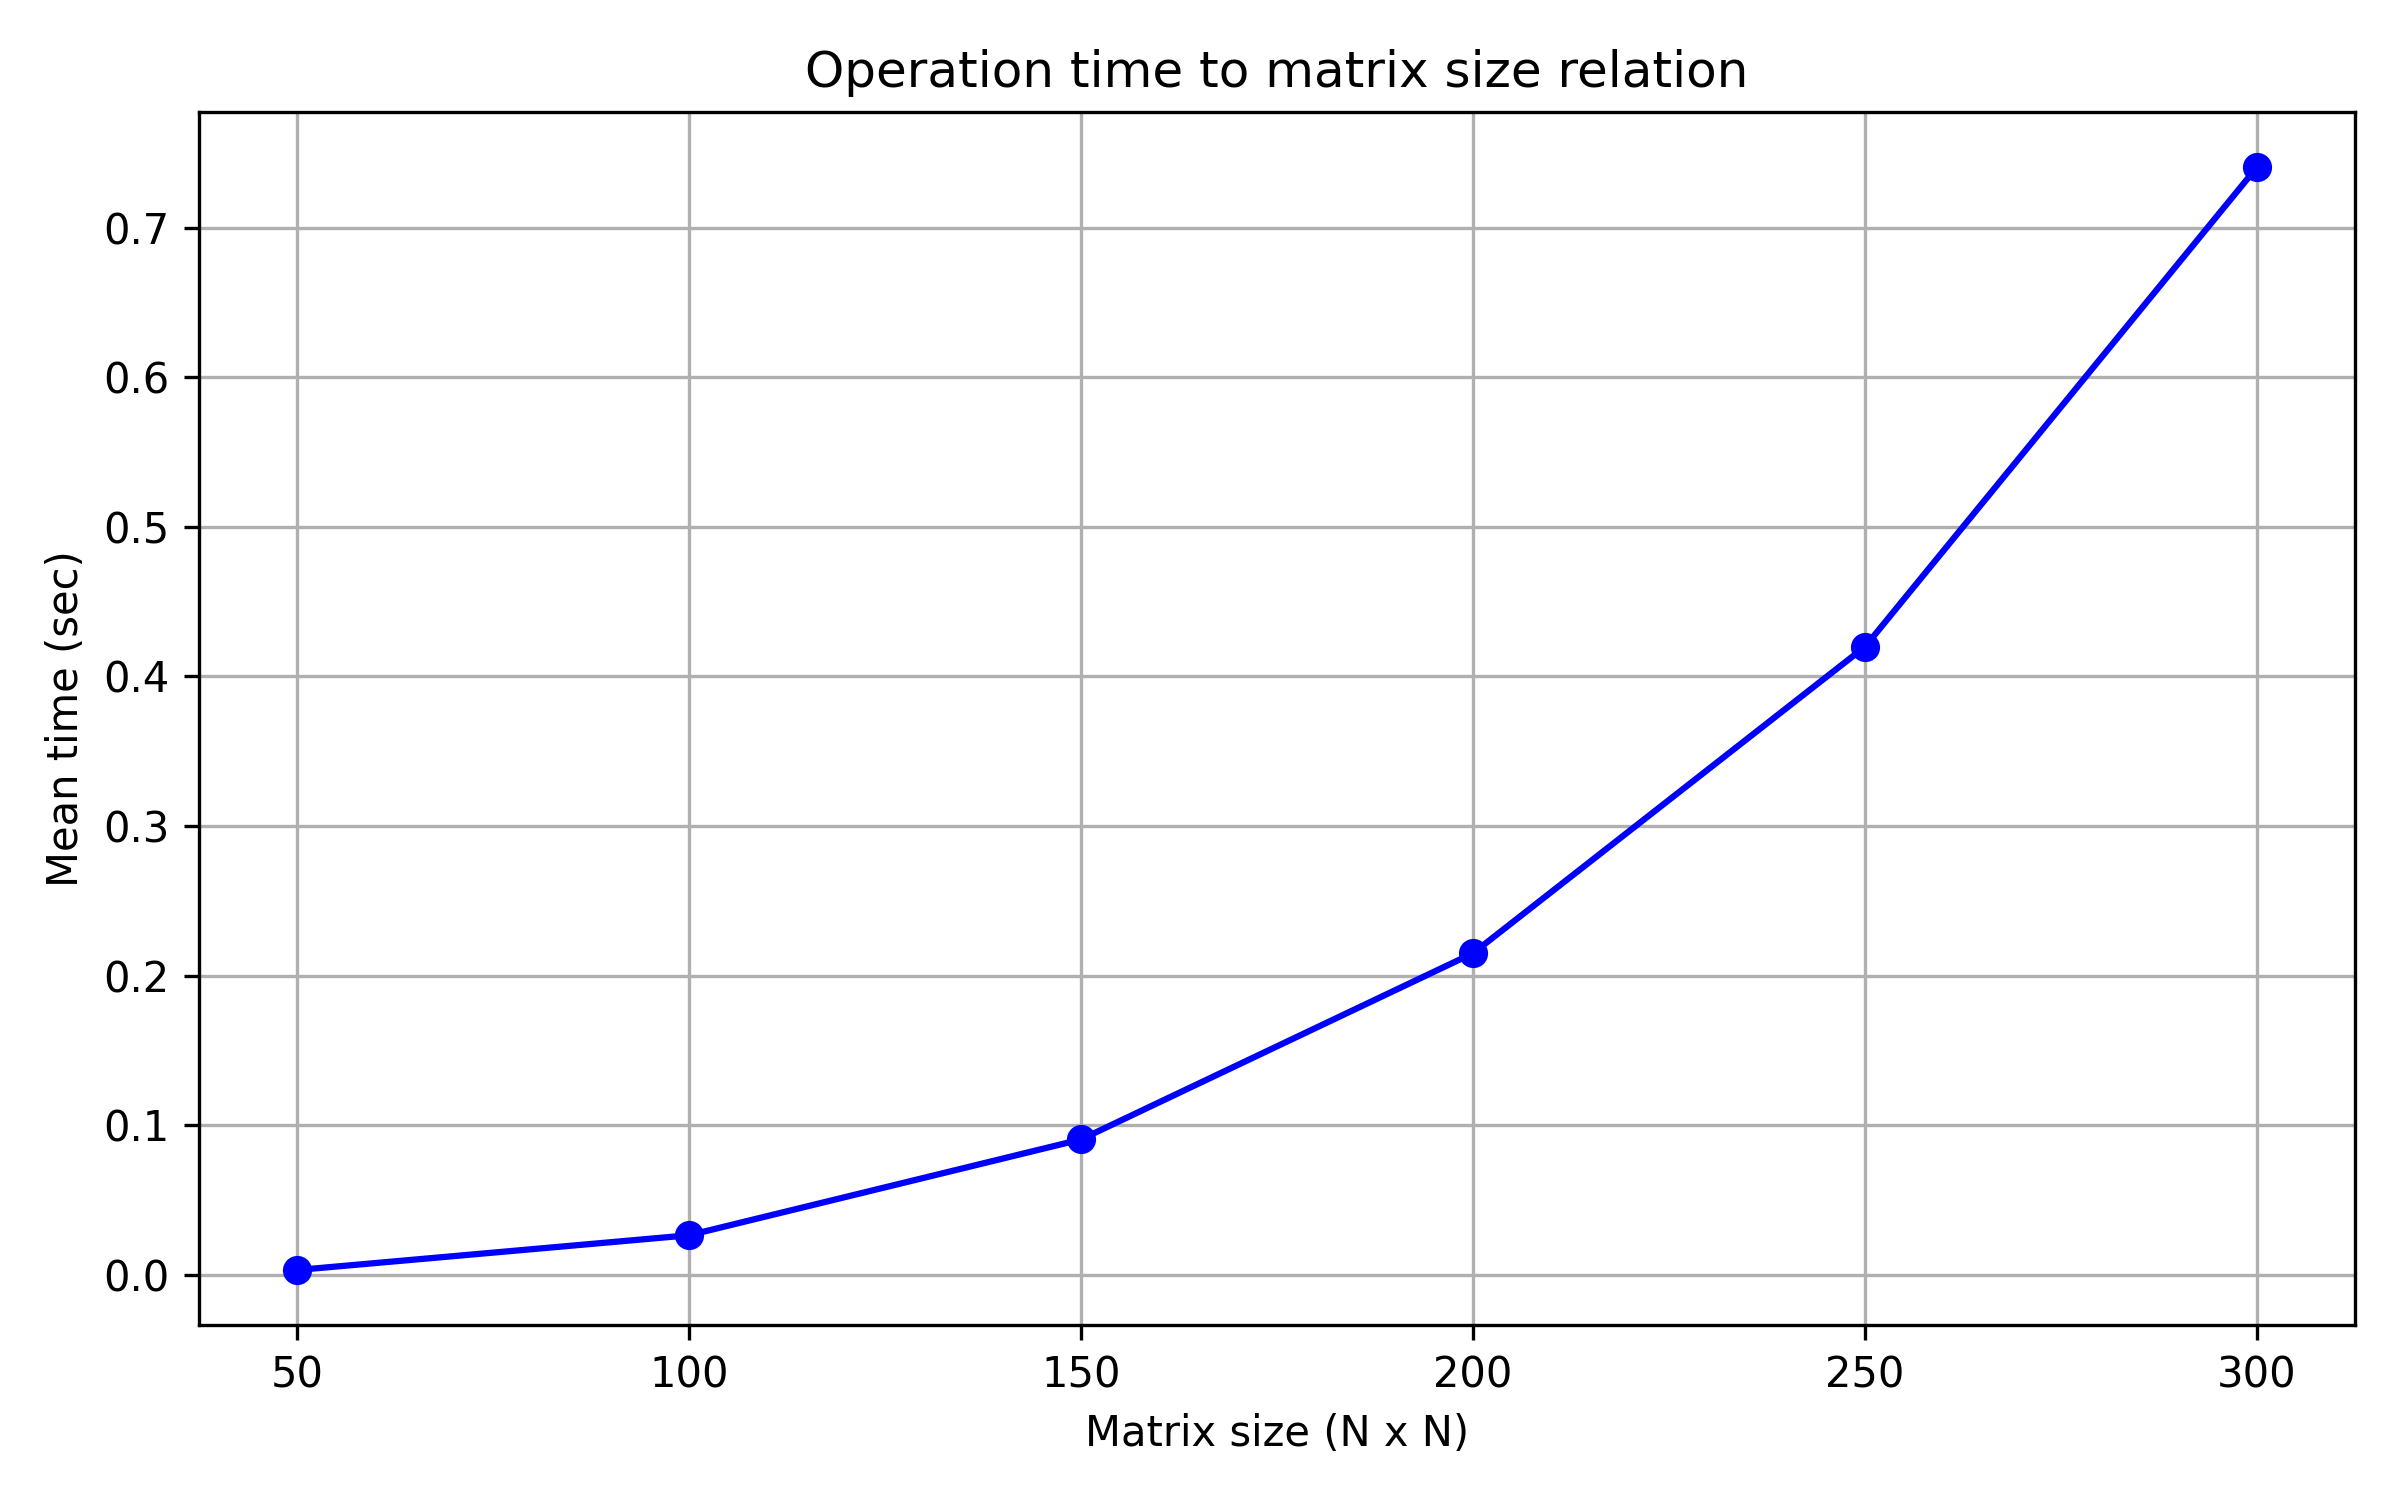
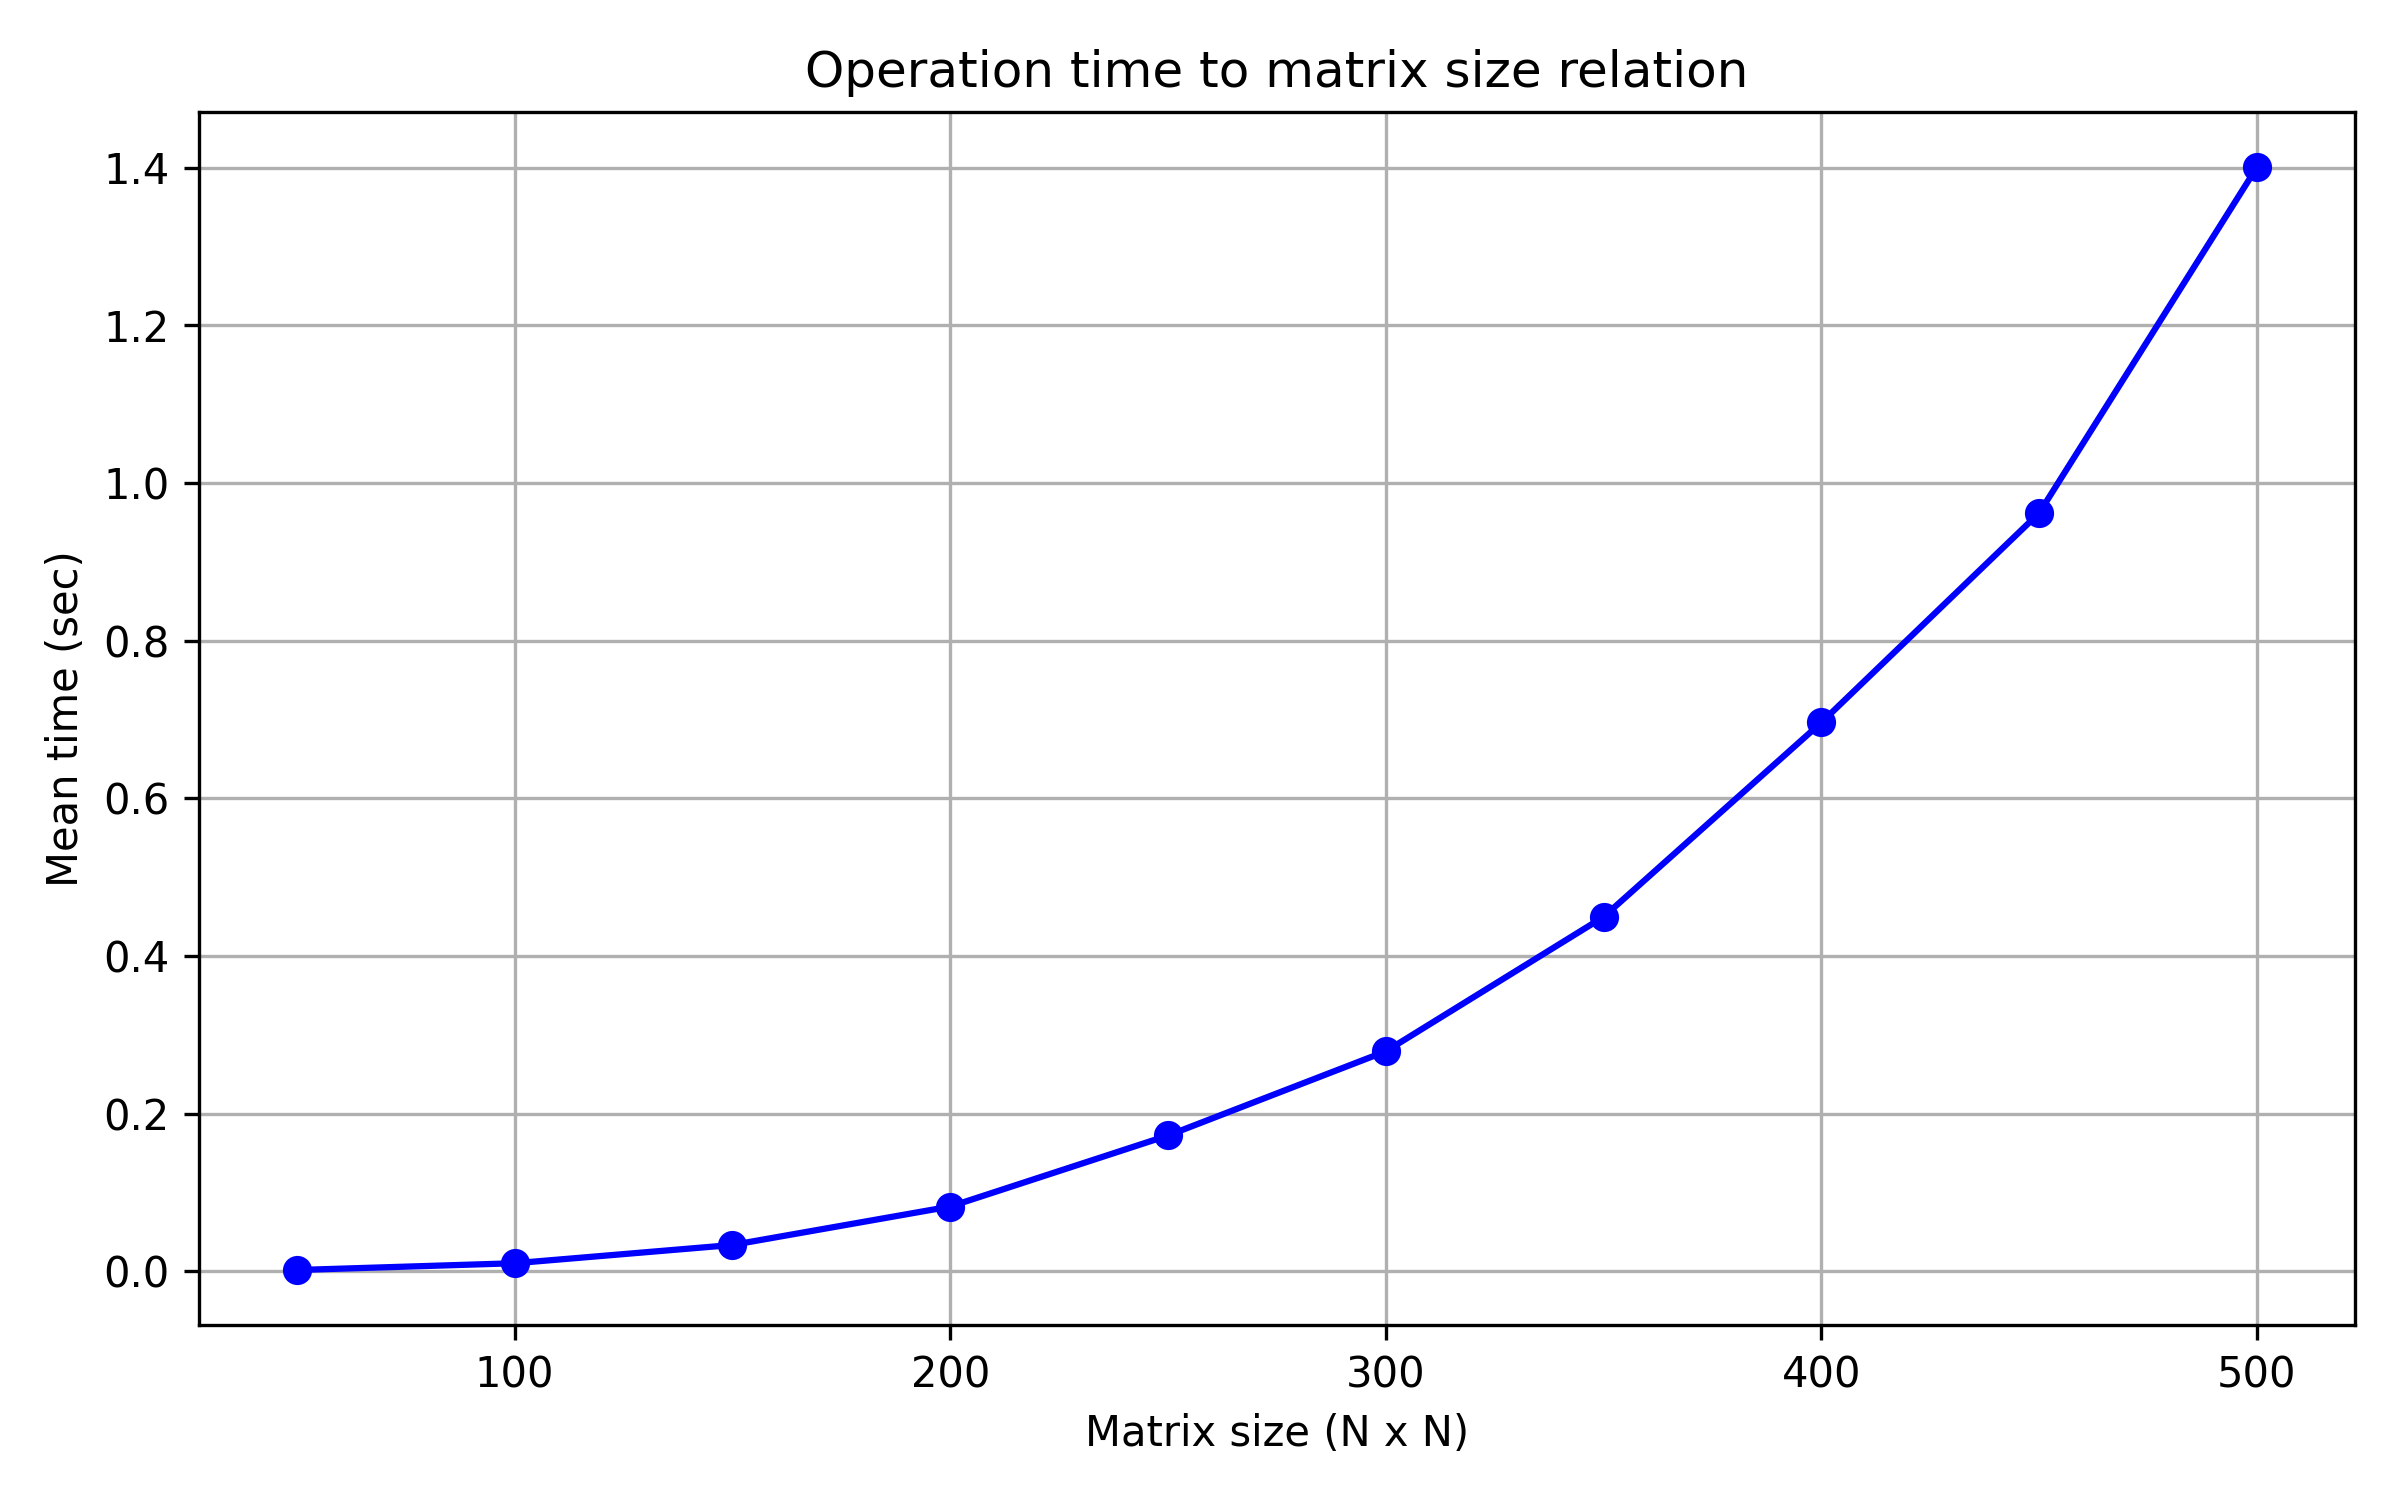
Added script for entry point

diff --git a/check.py b/check.py
@@ -6,7 +6,7 @@ import re
 INPUT_DIR = "input"
 LOG_FILE = "check.log"
 NUM_FILES_PER_SIZE = 10
-MAX_SIZE = 300
+MAX_SIZE = 500
 SIZE_INCREMENT = 50
 
 def read_matrix(filename):

diff --git a/multiply.cpp b/multiply.cpp
@@ -7,7 +7,7 @@
 #include <string>
 
 #define DISTANCE 10000.0
-#define MAX_SIZE 300
+#define MAX_SIZE 500
 #define NUM_FILES_PER_SIZE 10
 
 using namespace std;

diff --git a/README.md b/README.md
@@ -1,0 +1,41 @@
+## Отчет по лабораторной работе №1 
+
+### Задание на лабораторную работу: 
+   Написать программу на языке C/C++ для перемножения двух матриц.
+Исходные данные: файл(ы) содержащие значения исходных матриц.
+Выходные данные: файл со значениями результирующей матрицы, время
+выполнения, объем задачи.
+Обязательна автоматизированная верификация результатов вычислений с помощью
+сторонних библиотек или стороннего ПО (например на Matlab/Python).
+
+### Файлы:
+* [multiply.cpp](multiply.cpp) - создает файлы с матрицами, профводит умножение и сохраняет время выполнения
+* [check.py](check.py) - проверяет корректность умножения с помощью numpy и строит график зависимости времени умножения от размера матриц
+* [input](input) - папка со всеми сгенерированными матрицами и результатами их перемножения. Не добавлена в репозиторий в силу огромного количества файлов
+* [timing_results.txt](timing_results.txt) - файл, содержащий размеры матриц и среднее (из 10 экспериментов) время их перемножения
+* [script.ps1](script.ps1) - точка входа в программу. Запустит последовательно создание-умножение и проверку. Результат можно будет увидеть в check.log
+
+### Специфика
+Максимальный размер матриц задается константами в файлах multiply.cpp и check.py, он должен совпадать
+  
+### Результаты экспериментов и выводы: 
+Статистика: 
+
+|Размер|Среднее время, с|
+|------------:|-------:|
+|50x50	|0.001501|
+|100x100|	0.010109|
+|150x150|	0.033304|
+|200x200|	0.082021|
+|250x250|	0.172176|
+|300x300|	0.278965|
+|350x350|	0.449517|
+|400x400|	0.696111|
+|450x450|	0.961924|
+|500x500|	1.400607|
+
+График: 
+
+![График](timing_plot.png)
+
+Вывод: При увеличении размерности матриц, время умножения значительно увеличивается. Исходя из полученных даных, можно сделать вывод о кубическом росте времени выполнения алгоритма.
